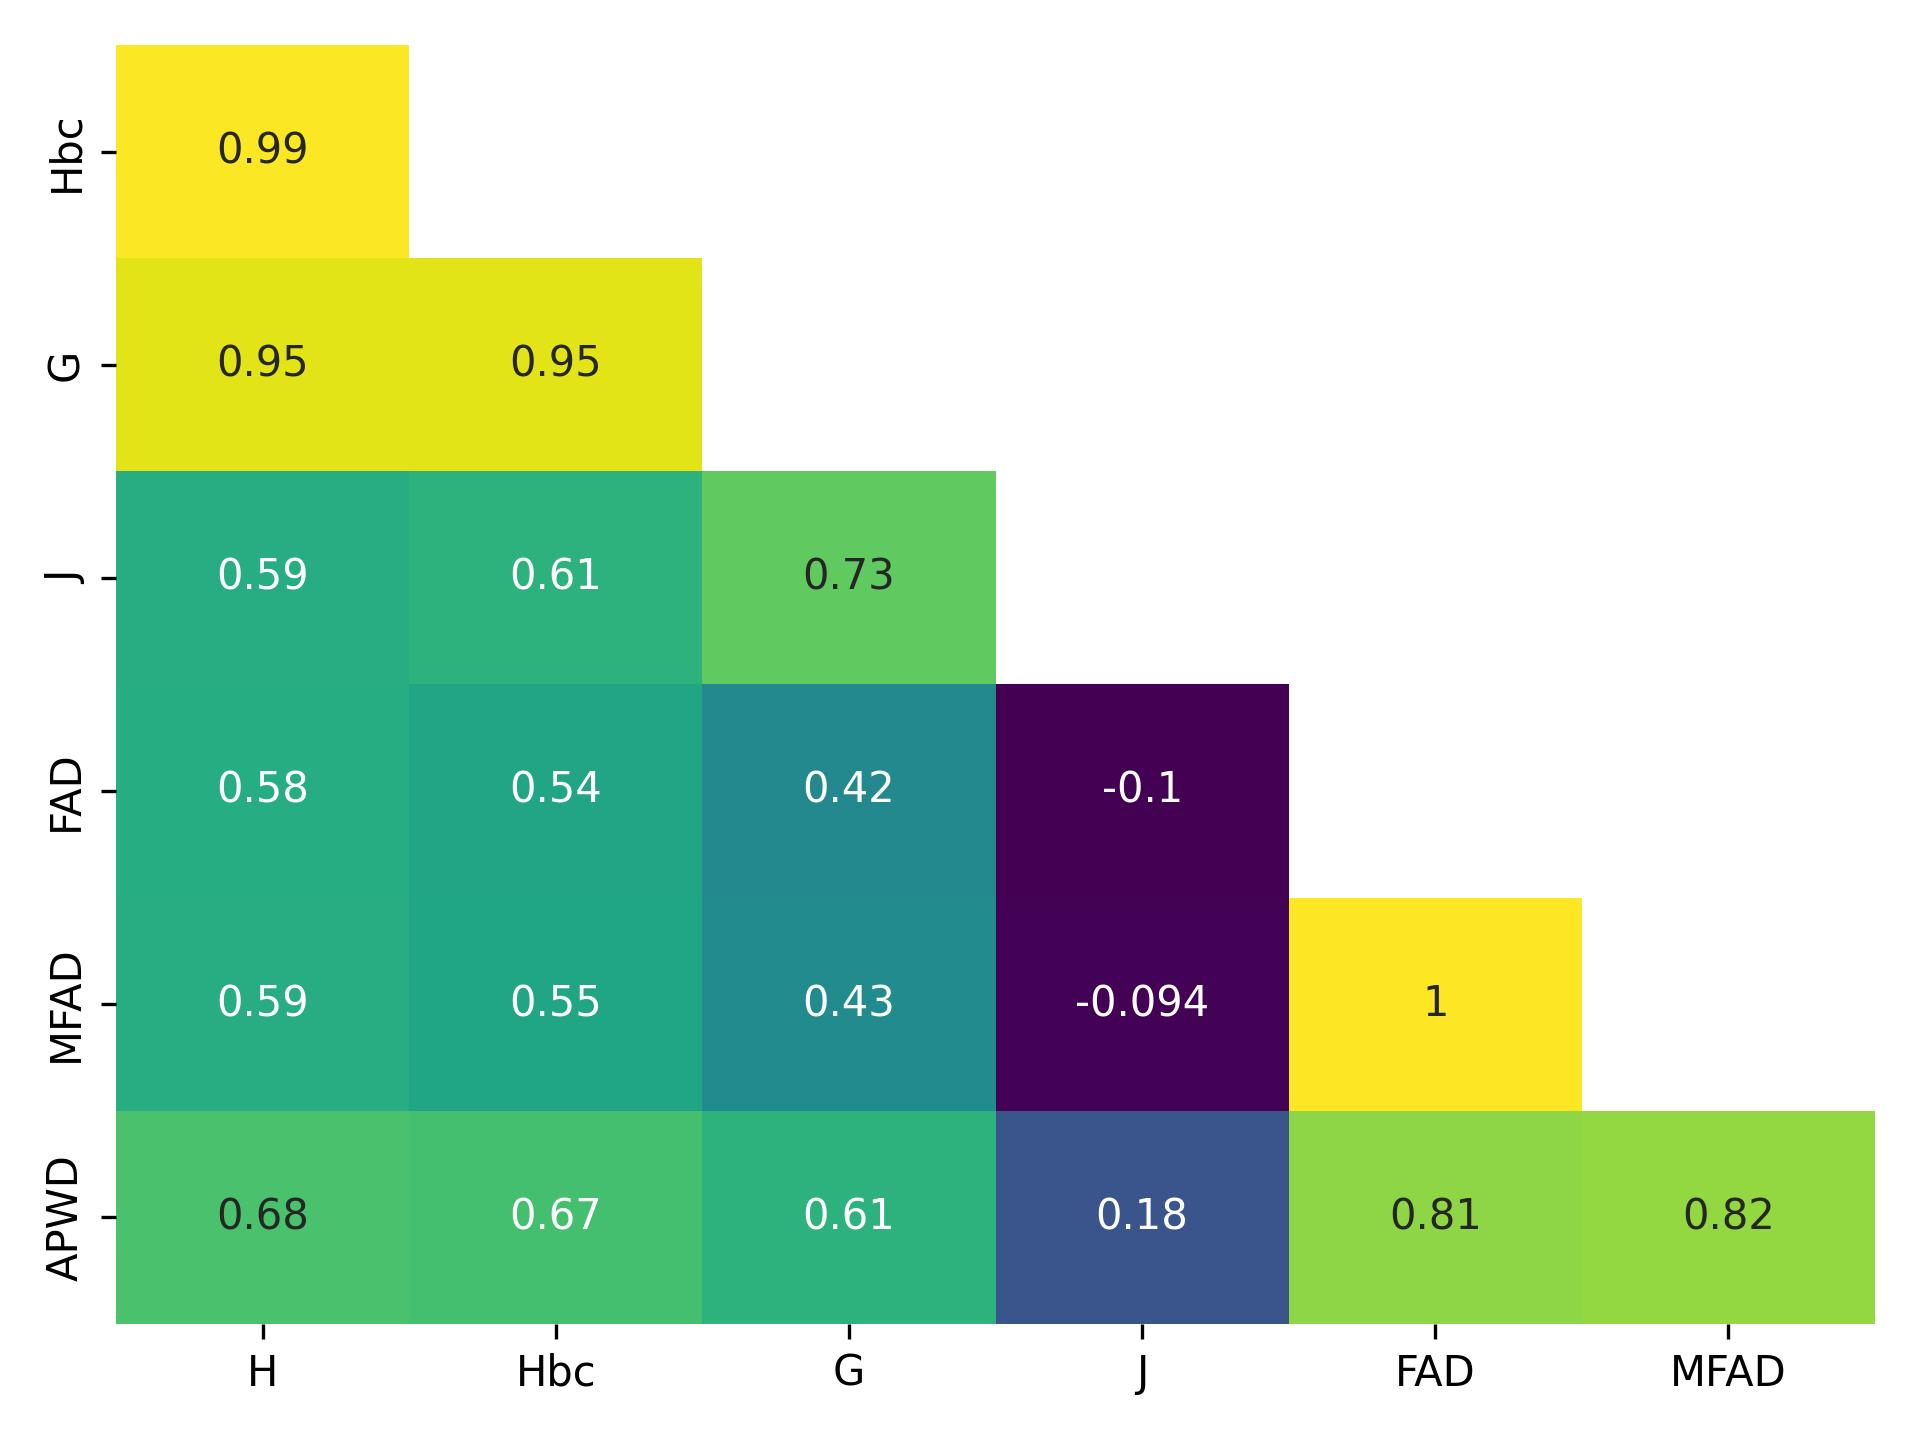
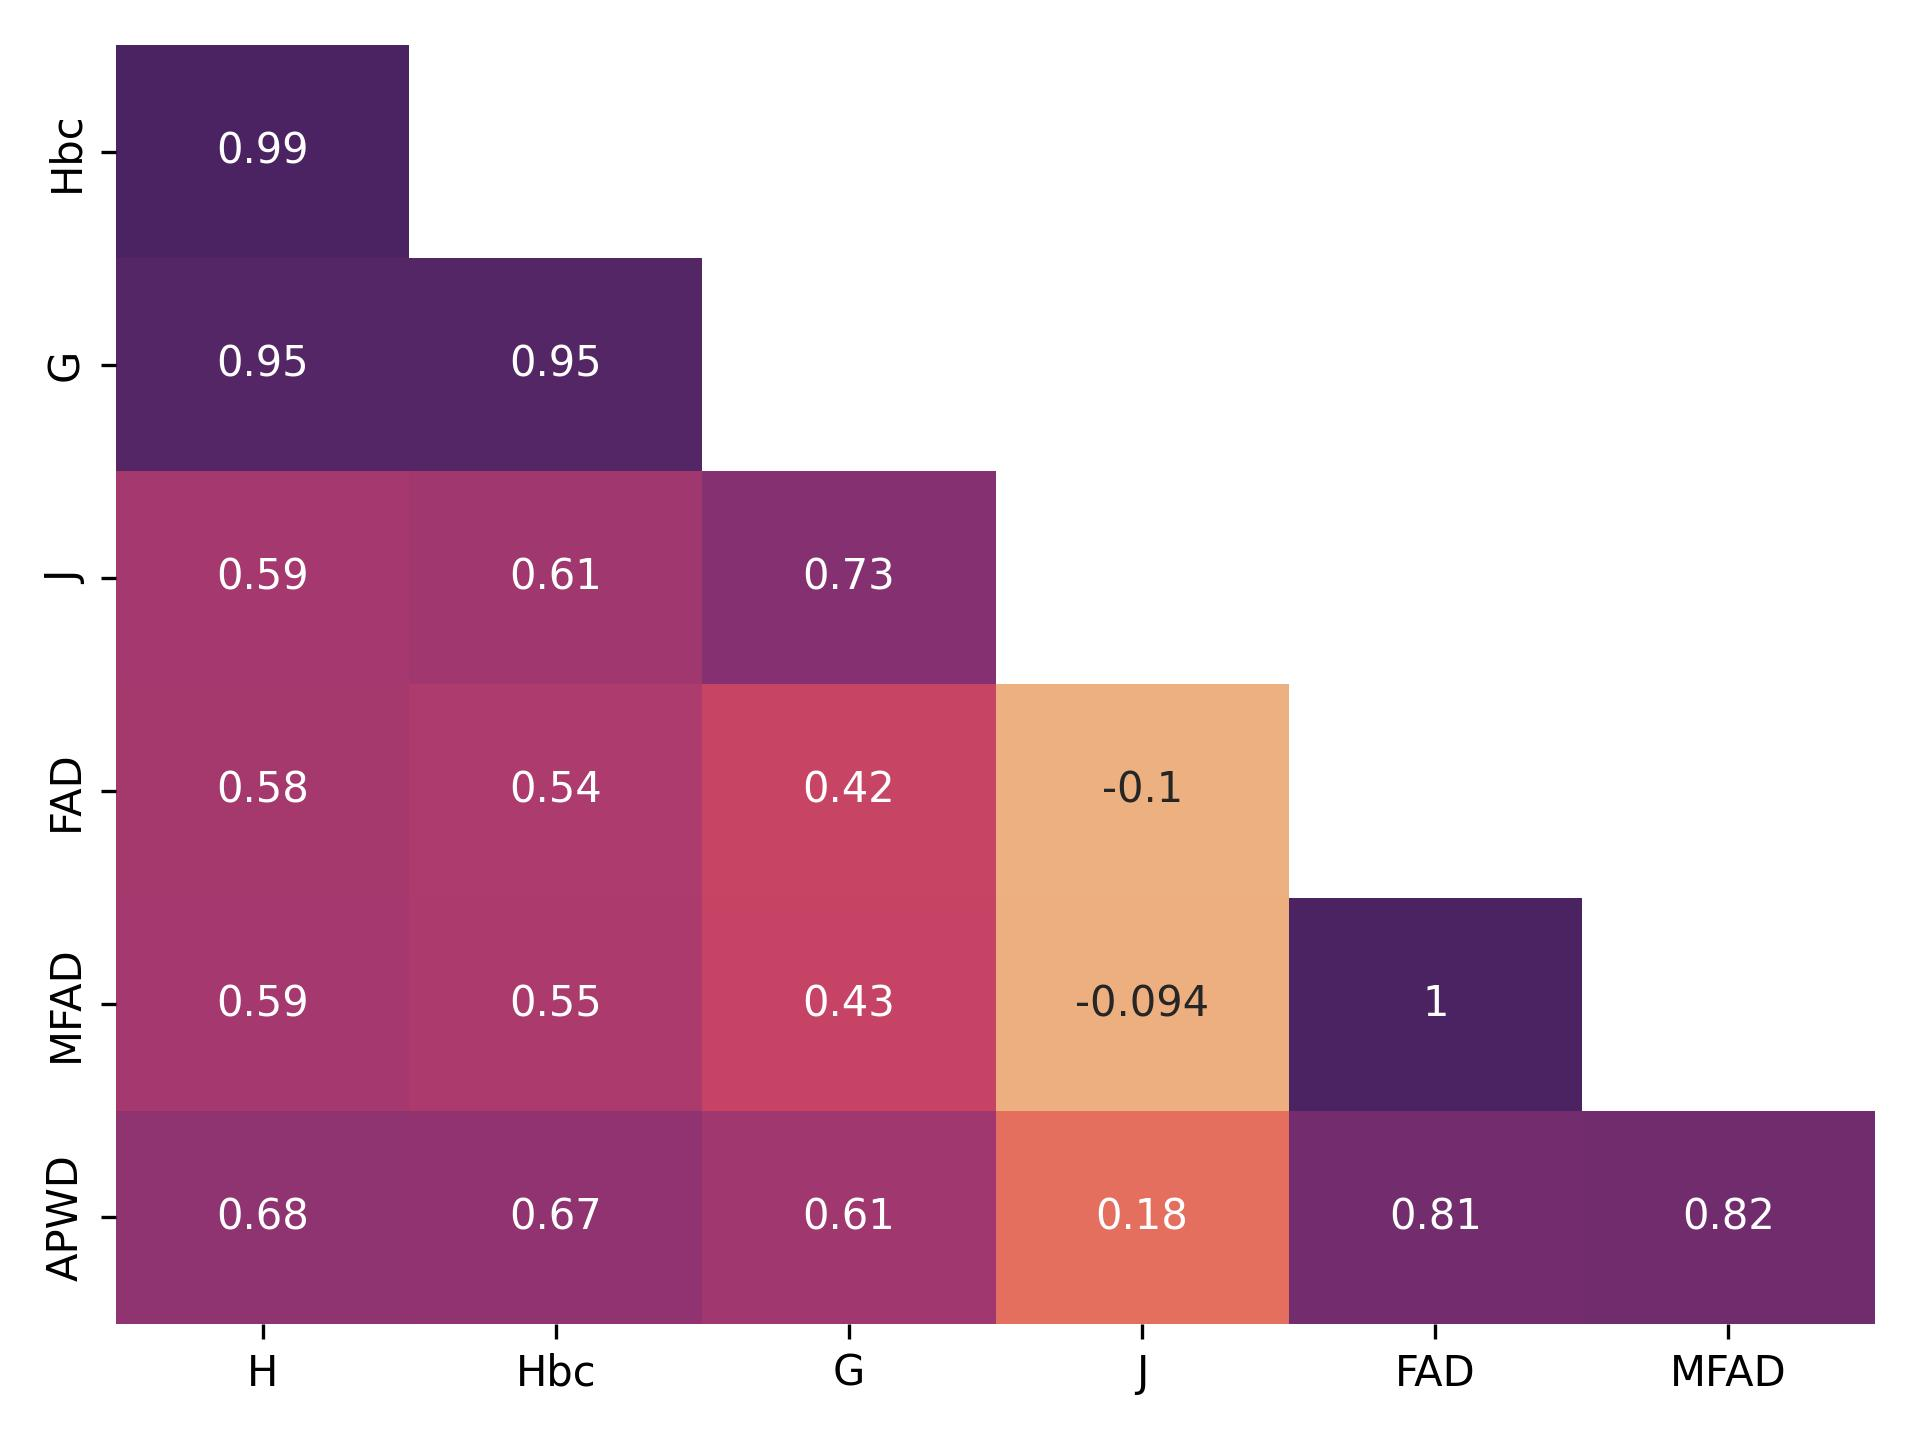
Use better cmap

diff --git a/analysis_of_diversity_in_native_regions/analyse_relation_to_pd.py b/analysis_of_diversity_in_native_regions/analyse_relation_to_pd.py
@@ -212,7 +212,7 @@ def main(metrics, outpath):
     correlations.to_csv(os.path.join(outpath, 'correlations.csv'))
 
     fig, ax = plt.subplots(figsize=(5, 1.5))
-    sns.heatmap(correlations.loc[['Phylogenetic Diversity']], cmap='viridis', annot=True, cbar=False)
+    sns.heatmap(correlations.loc[['Phylogenetic Diversity']], cmap='flare', annot=True, cbar=False)
     plt.yticks([])
     plt.tight_layout()
     plt.savefig(os.path.join(outpath, 'correlation_heatmap.jpg'), dpi=300)
@@ -226,7 +226,7 @@ def main(metrics, outpath):
     partial_correlation_r_dfs.to_csv(os.path.join(outpath, 'partial_correlation_r_values.csv'))
 
     fig, ax = plt.subplots(figsize=(5, 1.5))
-    sns.heatmap(partial_correlation_r_dfs, cmap='viridis', annot=True, cbar=False)
+    sns.heatmap(partial_correlation_r_dfs, cmap='flare', annot=True, cbar=False)
     plt.yticks([])
     plt.tight_layout()
     plt.savefig(os.path.join(outpath, 'partial_correlation_heatmap.jpg'), dpi=300)

diff --git a/analysis_of_diversity_in_native_regions/spatial_plots.py b/analysis_of_diversity_in_native_regions/spatial_plots.py
@@ -13,7 +13,7 @@ _temp_outputs_path = resource_filename(__name__, 'temp_outputs')
 _output_path = resource_filename(__name__, 'outputs')
 
 
-def plot_dist_of_metric(df_with_region_data, metric, colormap: str = 'viridis', out_path: str = None):
+def plot_dist_of_metric(df_with_region_data, metric, colormap: str = 'flare', out_path: str = None):
     import matplotlib.pyplot as plt
     import matplotlib as mpl
     import cartopy.crs as ccrs

diff --git a/analysis_of_diversity_in_native_regions/correlations_of_indices.py b/analysis_of_diversity_in_native_regions/correlations_of_indices.py
@@ -52,7 +52,7 @@ def output_correlations(metrics, out_dir):
 
     # Want diagonal elements as well
     mask[np.diag_indices_from(mask)] = False
-    sns.heatmap(plot_corr_df, cmap='viridis', annot=True, mask=mask, cbar=False)
+    sns.heatmap(plot_corr_df, cmap='flare', annot=True, mask=mask, cbar=False)
     plt.tight_layout()
     plt.savefig(os.path.join(out_dir, 'diversity_heatmap.jpg'), dpi=300)
     plt.close()
